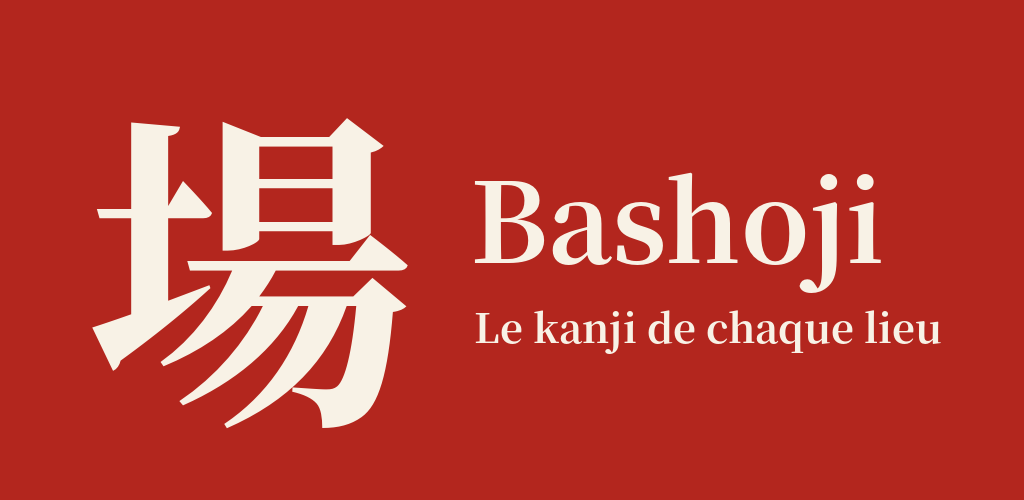
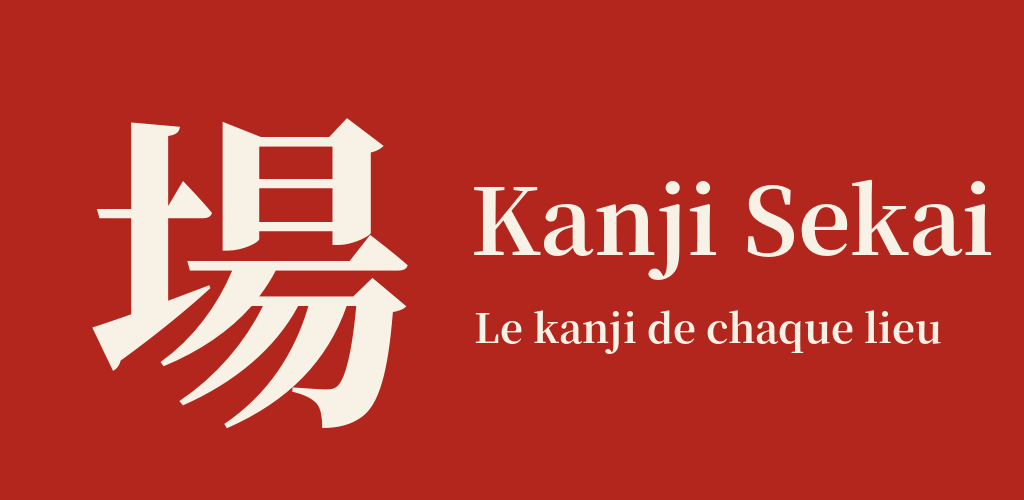
Add files via upload

Changed region(s): [[0.4688, 0.33, 0.9688, 0.6]]

diff --git a/src/routes/index.tsx b/src/routes/index.tsx
@@ -15,13 +15,13 @@ import { Credits } from "@/components/Credits";
 export const Route = createFileRoute("/")({
   head: () => ({
     meta: [
-      { title: "Bashoji — le kanji de chaque lieu" },
+      { title: "Kanji Sekai — le kanji de chaque lieu" },
       {
         name: "description",
         content:
-          "Bashoji : chaque carré de 30 mètres sur Terre possède son propre kanji et sa signification, toujours identique pour un même geohash.",
+          "Kanji Sekai : chaque carré de 30 mètres sur Terre possède son propre kanji et sa signification, toujours identique pour un même geohash.",
       },
-      { property: "og:title", content: "Bashoji" },
+      { property: "og:title", content: "Kanji Sekai" },
       {
         property: "og:description",
         content: "Découvrez le kanji attaché à votre position, stable pour chaque carré de 30 m.",
@@ -259,7 +259,7 @@ function Index() {
           />
         )}
         {!pad && (
-          <div className="absolute left-4 top-4 flex gap-2">
+          <div className="absolute left-4 top-[calc(var(--safe-area-inset-top,env(safe-area-inset-top,0px))+1rem)] flex gap-2">
             <button
               type="button"
               onClick={() => setCamera((c) => !c)}
@@ -286,7 +286,7 @@ function Index() {
             type="button"
             onClick={() => setHud(false)}
             aria-label="Quitter le mode marche"
-            className="absolute right-4 top-4 rounded-full border border-white/25 p-2 text-white/70"
+            className="absolute right-4 top-[calc(var(--safe-area-inset-top,env(safe-area-inset-top,0px))+1rem)] rounded-full border border-white/25 p-2 text-white/70"
           >
             <X className="h-5 w-5" />
           </button>
@@ -323,7 +323,7 @@ function Index() {
         ) : (
           <p className="relative text-white/70">Activez votre position pour démarrer la marche.</p>
         )}
-        <div className="absolute inset-x-0 bottom-5 flex justify-center gap-2">
+        <div className="absolute inset-x-0 bottom-[calc(var(--safe-area-inset-bottom,env(safe-area-inset-bottom,0px))+1.25rem)] flex flex-wrap justify-center gap-2 px-3">
           {!pad && chaining && (
             <button
               type="button"
@@ -387,8 +387,8 @@ function Index() {
     <main className="min-h-screen bg-background px-5 py-10 text-foreground">
       <div className="mx-auto flex w-full max-w-md flex-col gap-8">
         <header className="text-center">
-          <p className="font-jp text-sm tracking-[0.4em] text-primary">場所じ</p>
-          <h1 className="mt-2 font-jp text-2xl font-semibold tracking-tight">Bashoji</h1>
+          <p className="font-jp text-sm tracking-[0.4em] text-primary">漢字世界</p>
+          <h1 className="mt-2 font-jp text-2xl font-semibold tracking-tight">Kanji Sekai</h1>
           <p className="mt-2 text-sm leading-relaxed text-muted-foreground">
             Le kanji du lieu. Chaque carré de 30 mètres possède son propre kanji, toujours le même
             pour un même geohash.

diff --git a/src/routes/__root.tsx b/src/routes/__root.tsx
@@ -78,17 +78,17 @@ export const Route = createRootRouteWithContext<{ queryClient: QueryClient }>()(
     meta: [
       { charSet: "utf-8" },
       { name: "viewport", content: "width=device-width, initial-scale=1" },
-      { title: "Bashoji" },
-      { name: "description", content: "Bashoji — le kanji attaché à chaque lieu, un carré de 30 m à la fois." },
-      { name: "author", content: "Bashoji" },
+      { title: "Kanji Sekai" },
+      { name: "description", content: "Kanji Sekai — le kanji attaché à chaque lieu, un carré de 30 m à la fois." },
+      { name: "author", content: "Kanji Sekai" },
       { name: "theme-color", content: "#b3261e" },
       { name: "apple-mobile-web-app-capable", content: "yes" },
-      { name: "apple-mobile-web-app-title", content: "Bashoji" },
-      { property: "og:title", content: "Bashoji" },
-      { property: "og:description", content: "Bashoji — le kanji attaché à chaque lieu, un carré de 30 m à la fois." },
+      { name: "apple-mobile-web-app-title", content: "Kanji Sekai" },
+      { property: "og:title", content: "Kanji Sekai" },
+      { property: "og:description", content: "Kanji Sekai — le kanji attaché à chaque lieu, un carré de 30 m à la fois." },
       { property: "og:type", content: "website" },
       { name: "twitter:card", content: "summary_large_image" },
-      { name: "twitter:site", content: "@Bashoji" },
+      { name: "twitter:site", content: "@KanjiSekai" },
     ],
     links: [
       {

diff --git a/src/routes/collection.tsx b/src/routes/collection.tsx
@@ -7,13 +7,13 @@ import { MemoryPlaceEditor } from "@/components/MemoryPlaceEditor";
 export const Route = createFileRoute("/collection")({
   head: () => ({
     meta: [
-      { title: "Collection — Bashoji" },
+      { title: "Collection — Kanji Sekai" },
       {
         name: "description",
         content:
-          "Les kanji dont vous avez validé le tracé en marchant. Votre collection personnelle Bashoji.",
+          "Les kanji dont vous avez validé le tracé en marchant. Votre collection personnelle Kanji Sekai.",
       },
-      { property: "og:title", content: "Collection — Bashoji" },
+      { property: "og:title", content: "Collection — Kanji Sekai" },
       {
         property: "og:description",
         content: "Kanji validés au tracé, classés par date de réussite.",
@@ -31,7 +31,7 @@ function CollectionPage() {
     <main className="min-h-screen bg-background px-5 py-10 text-foreground">
       <div className="mx-auto flex w-full max-w-md flex-col gap-8">
         <header className="text-center">
-          <p className="font-jp text-sm tracking-[0.4em] text-primary">場所じ</p>
+          <p className="font-jp text-sm tracking-[0.4em] text-primary">漢字世界</p>
           <h1 className="mt-2 font-jp text-2xl font-semibold tracking-tight">Collection</h1>
           <p className="mt-2 text-sm leading-relaxed text-muted-foreground">
             {collection.items.length === 0

diff --git a/src/components/Credits.tsx b/src/components/Credits.tsx
@@ -21,9 +21,9 @@ export function Credits() {
       </DialogTrigger>
       <DialogContent className="max-h-[85vh] overflow-y-auto">
         <DialogHeader>
-          <DialogTitle className="font-jp">場 Bashoji — Crédits</DialogTitle>
+          <DialogTitle className="font-jp">世界 Kanji Sekai — Crédits</DialogTitle>
           <DialogDescription>
-            Bashoji ne collecte aucune donnée : tout reste sur votre appareil.
+            Kanji Sekai ne collecte aucune donnée : tout reste sur votre appareil.
           </DialogDescription>
         </DialogHeader>
         <ul className="flex flex-col gap-3 text-sm leading-relaxed">

diff --git a/spa/index.html b/spa/index.html
@@ -4,7 +4,7 @@
     <meta charset="utf-8" />
     <meta name="viewport" content="width=device-width, initial-scale=1, viewport-fit=cover" />
     <meta name="theme-color" content="#b3261e" />
-    <title>Bashoji</title>
+    <title>Kanji Sekai</title>
     <link rel="icon" href="/favicon.ico" />
     <link rel="manifest" href="/manifest.webmanifest" />
     <style>

diff --git a/spa/main.tsx b/spa/main.tsx
@@ -31,7 +31,7 @@ const rootRoute = createRootRoute({
   notFoundComponent: () => (
     <div className="flex min-h-screen items-center justify-center">
       <Link to="/" className="rounded-md bg-primary px-4 py-2 text-primary-foreground">
-        Bashoji
+        Kanji Sekai
       </Link>
     </div>
   ),

diff --git a/android-app/capacitor.config.js b/android-app/capacitor.config.js
@@ -1,7 +1,7 @@
 // Appli 100 % hors ligne : tout le site est embarqué dans l'APK (dossier www/).
 module.exports = {
-  appId: "com.bashoji.app",
-  appName: "Bashoji",
+  appId: "com.kanjisekai.app",
+  appName: "Kanji Sekai",
   webDir: "www",
   backgroundColor: "#f8f2e6",
 };

diff --git a/store/listing.md b/store/listing.md
@@ -1,14 +1,14 @@
-# Fiche Play Store — Bashoji
+# Fiche Play Store — Kanji Sekai
 
-**Nom** : Bashoji — le kanji de chaque lieu (max 30 car.)
-**Identifiant** : com.bashoji.app (définitif après la 1re publication !)
+**Nom** : Kanji Sekai : kanji du lieu (27 car., max 30)
+**Identifiant** : com.kanjisekai.app (définitif après la 1re publication !)
 **Catégorie** : Éducation · **Gratuit** · **Public** : 13 ans et plus (à confirmer dans le questionnaire)
 
 ## Description courte (80 car. max)
 Chaque lieu a son kanji. Apprenez-le et tracez-le dans l'air, sans connexion.
 
 ## Description longue
-Bashoji associe un kanji à chaque carré de 30 mètres sur Terre. Le même lieu donne toujours le même kanji, avec sa signification et ses lectures japonaises.
+Kanji Sekai associe un kanji à chaque carré de 30 mètres sur Terre. Le même lieu donne toujours le même kanji, avec sa signification et ses lectures japonaises.
 
 • Marchez : le kanji du lieu s'affiche automatiquement
 • Regardez l'ordre des traits animé, puis dessinez-le à la main
@@ -20,7 +20,7 @@ Bashoji associe un kanji à chaque carré de 30 mètres sur Terre. Le même lieu
 
 ## English short / long
 Short: Every place has its own kanji. Learn it and trace it in the air, offline.
-Long: Bashoji assigns a kanji to every 30 m square on Earth. Walk, discover the kanji of your place, watch its stroke order, then trace it on screen or in mid-air with your camera. 2136 jōyō kanji, fully offline, no account, no ads.
+Long: Kanji Sekai assigns a kanji to every 30 m square on Earth. Walk, discover the kanji of your place, watch its stroke order, then trace it on screen or in mid-air with your camera. 2136 jōyō kanji, fully offline, no account, no ads.
 
 ## Graphismes
 - Icône 512×512 : store/play-icon-512.png

diff --git a/README.md b/README.md
@@ -1,4 +1,4 @@
-# 場 Bashoji
+# 世界 Kanji Sekai
 
 Le kanji attaché à chaque lieu, un carré de 30 m à la fois.
 
@@ -14,18 +14,18 @@ bun run dev
 ```sh
 git init
 git add .
-git commit -m "Bashoji: premier commit"
+git commit -m "Kanji Sekai: premier commit"
 git branch -M main
 git remote add origin https://github.com/<ton-compte>/bashoji.git
 git push -u origin main
 ```
 Le workflow `CI` build l'app à chaque push.
 
-## Déployer (Cloudflare Workers)
+## (Optionnel) Déployer le site en ligne sur Cloudflare
 1. Crée un token API Cloudflare (modèle « Edit Cloudflare Workers »).
 2. Dans GitHub : Settings > Secrets and variables > Actions, ajoute
    `CLOUDFLARE_API_TOKEN` et `CLOUDFLARE_ACCOUNT_ID`.
-3. Chaque push sur `main` lance `Deploy (Cloudflare)`.
+3. Recrée un workflow `deploy.yml` (`bunx wrangler deploy` après `bun run build`). Il a été retiré car l'APK hors ligne n'en a pas besoin.
 
 Si le build ne génère pas de config Wrangler, ajoute un `wrangler.jsonc`
 (nom : `bashoji`) pointant vers la sortie `.output/` du build.
